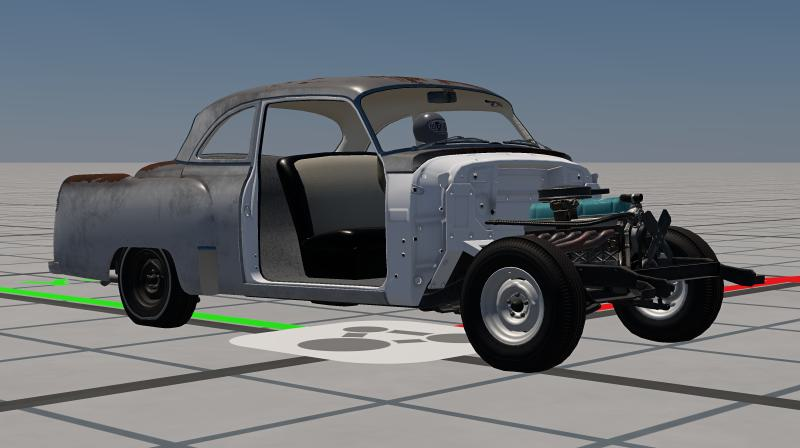
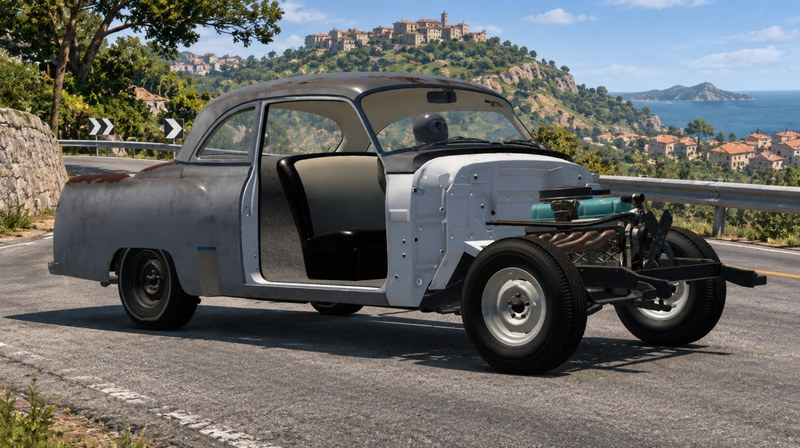
New Burnside Rusty starter picture
Claude-Session: https://claude.ai/code/session_01PnMg1eoUWMMu6ExBBYoQJR

diff --git a/CHANGELOG.md b/CHANGELOG.md
@@ -6,6 +6,8 @@ Every change to BeamNG Worldwide Trucking Career: Dangerous Contracts (formerly 
 
 Changes that are finished but not in a download yet. They move into a numbered build as soon as it's published.
 
+- **The starter Burnside Rusty has a new picture,** on the start page's **Your truck** card and in BeamNG's vehicle menu. Your saves still work.
+
 ## Build 117 · 3 Nov 2026
 
 - **The start page now opens in a big window in the middle of the screen,** like a real game's title screen. The HUD hides while it's open and comes back when you press **Back to the road**, which replaces Continue. If you had the HUD minimised, it stays minimised.
